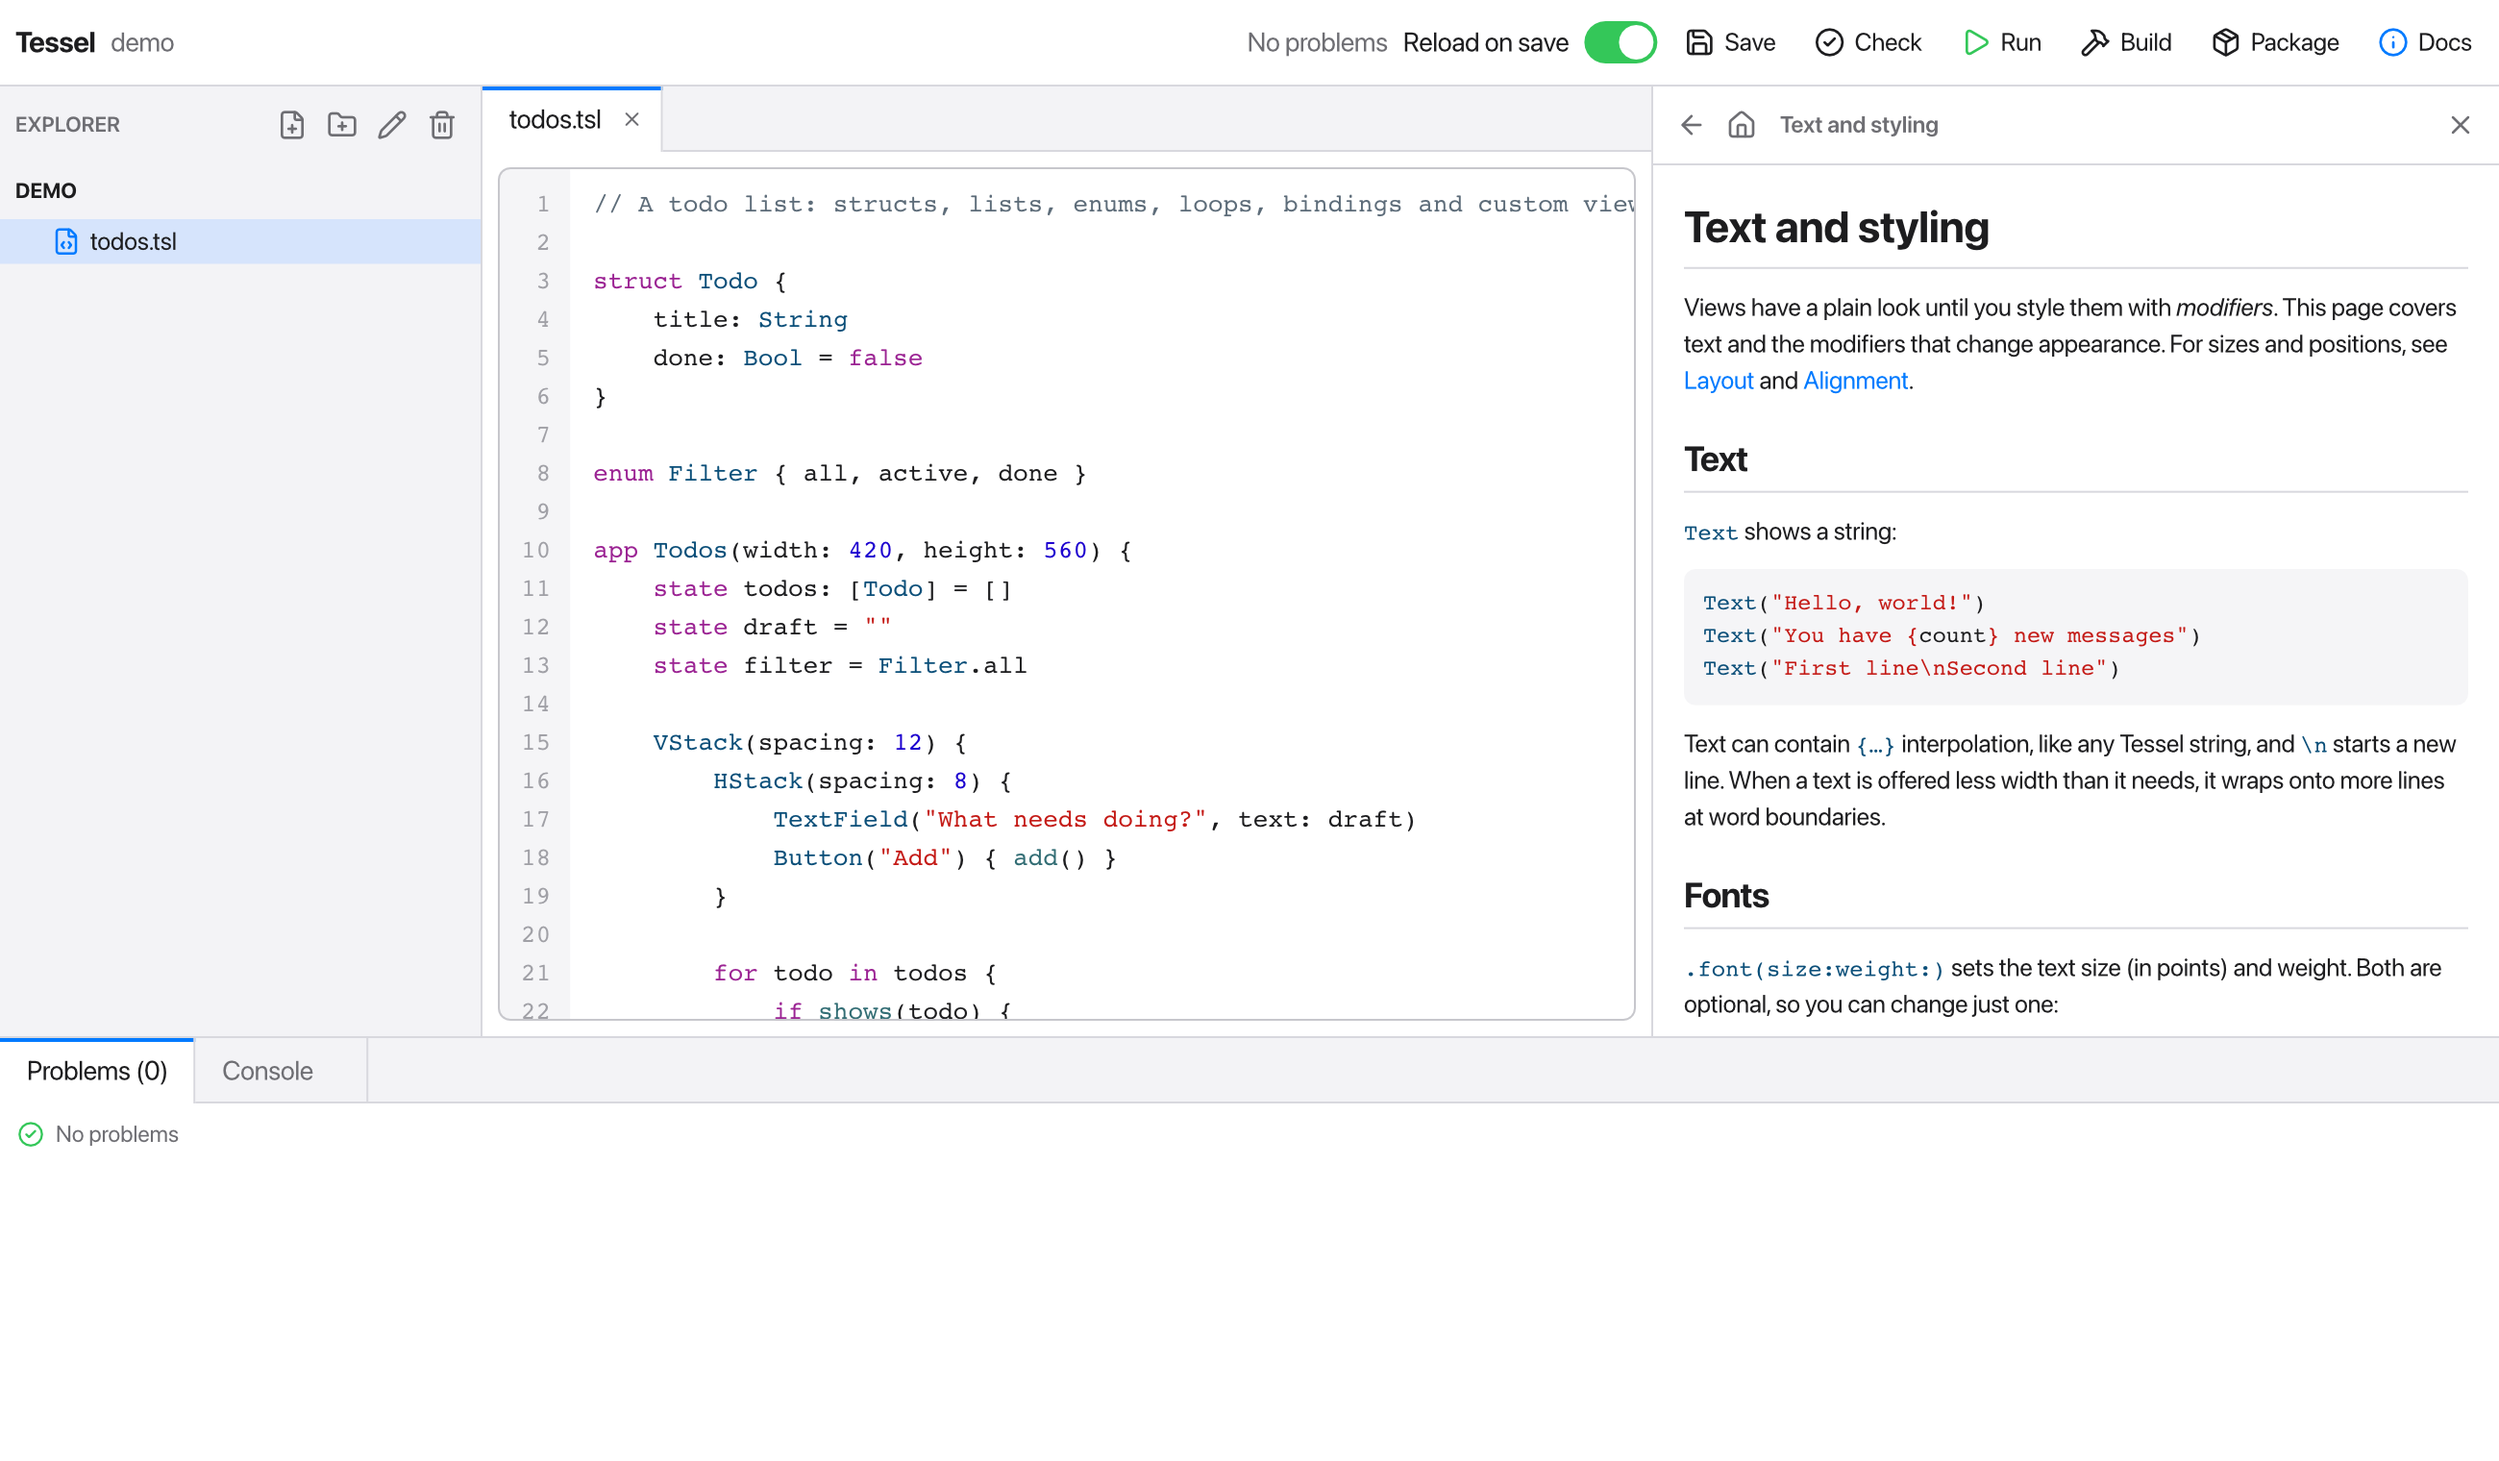
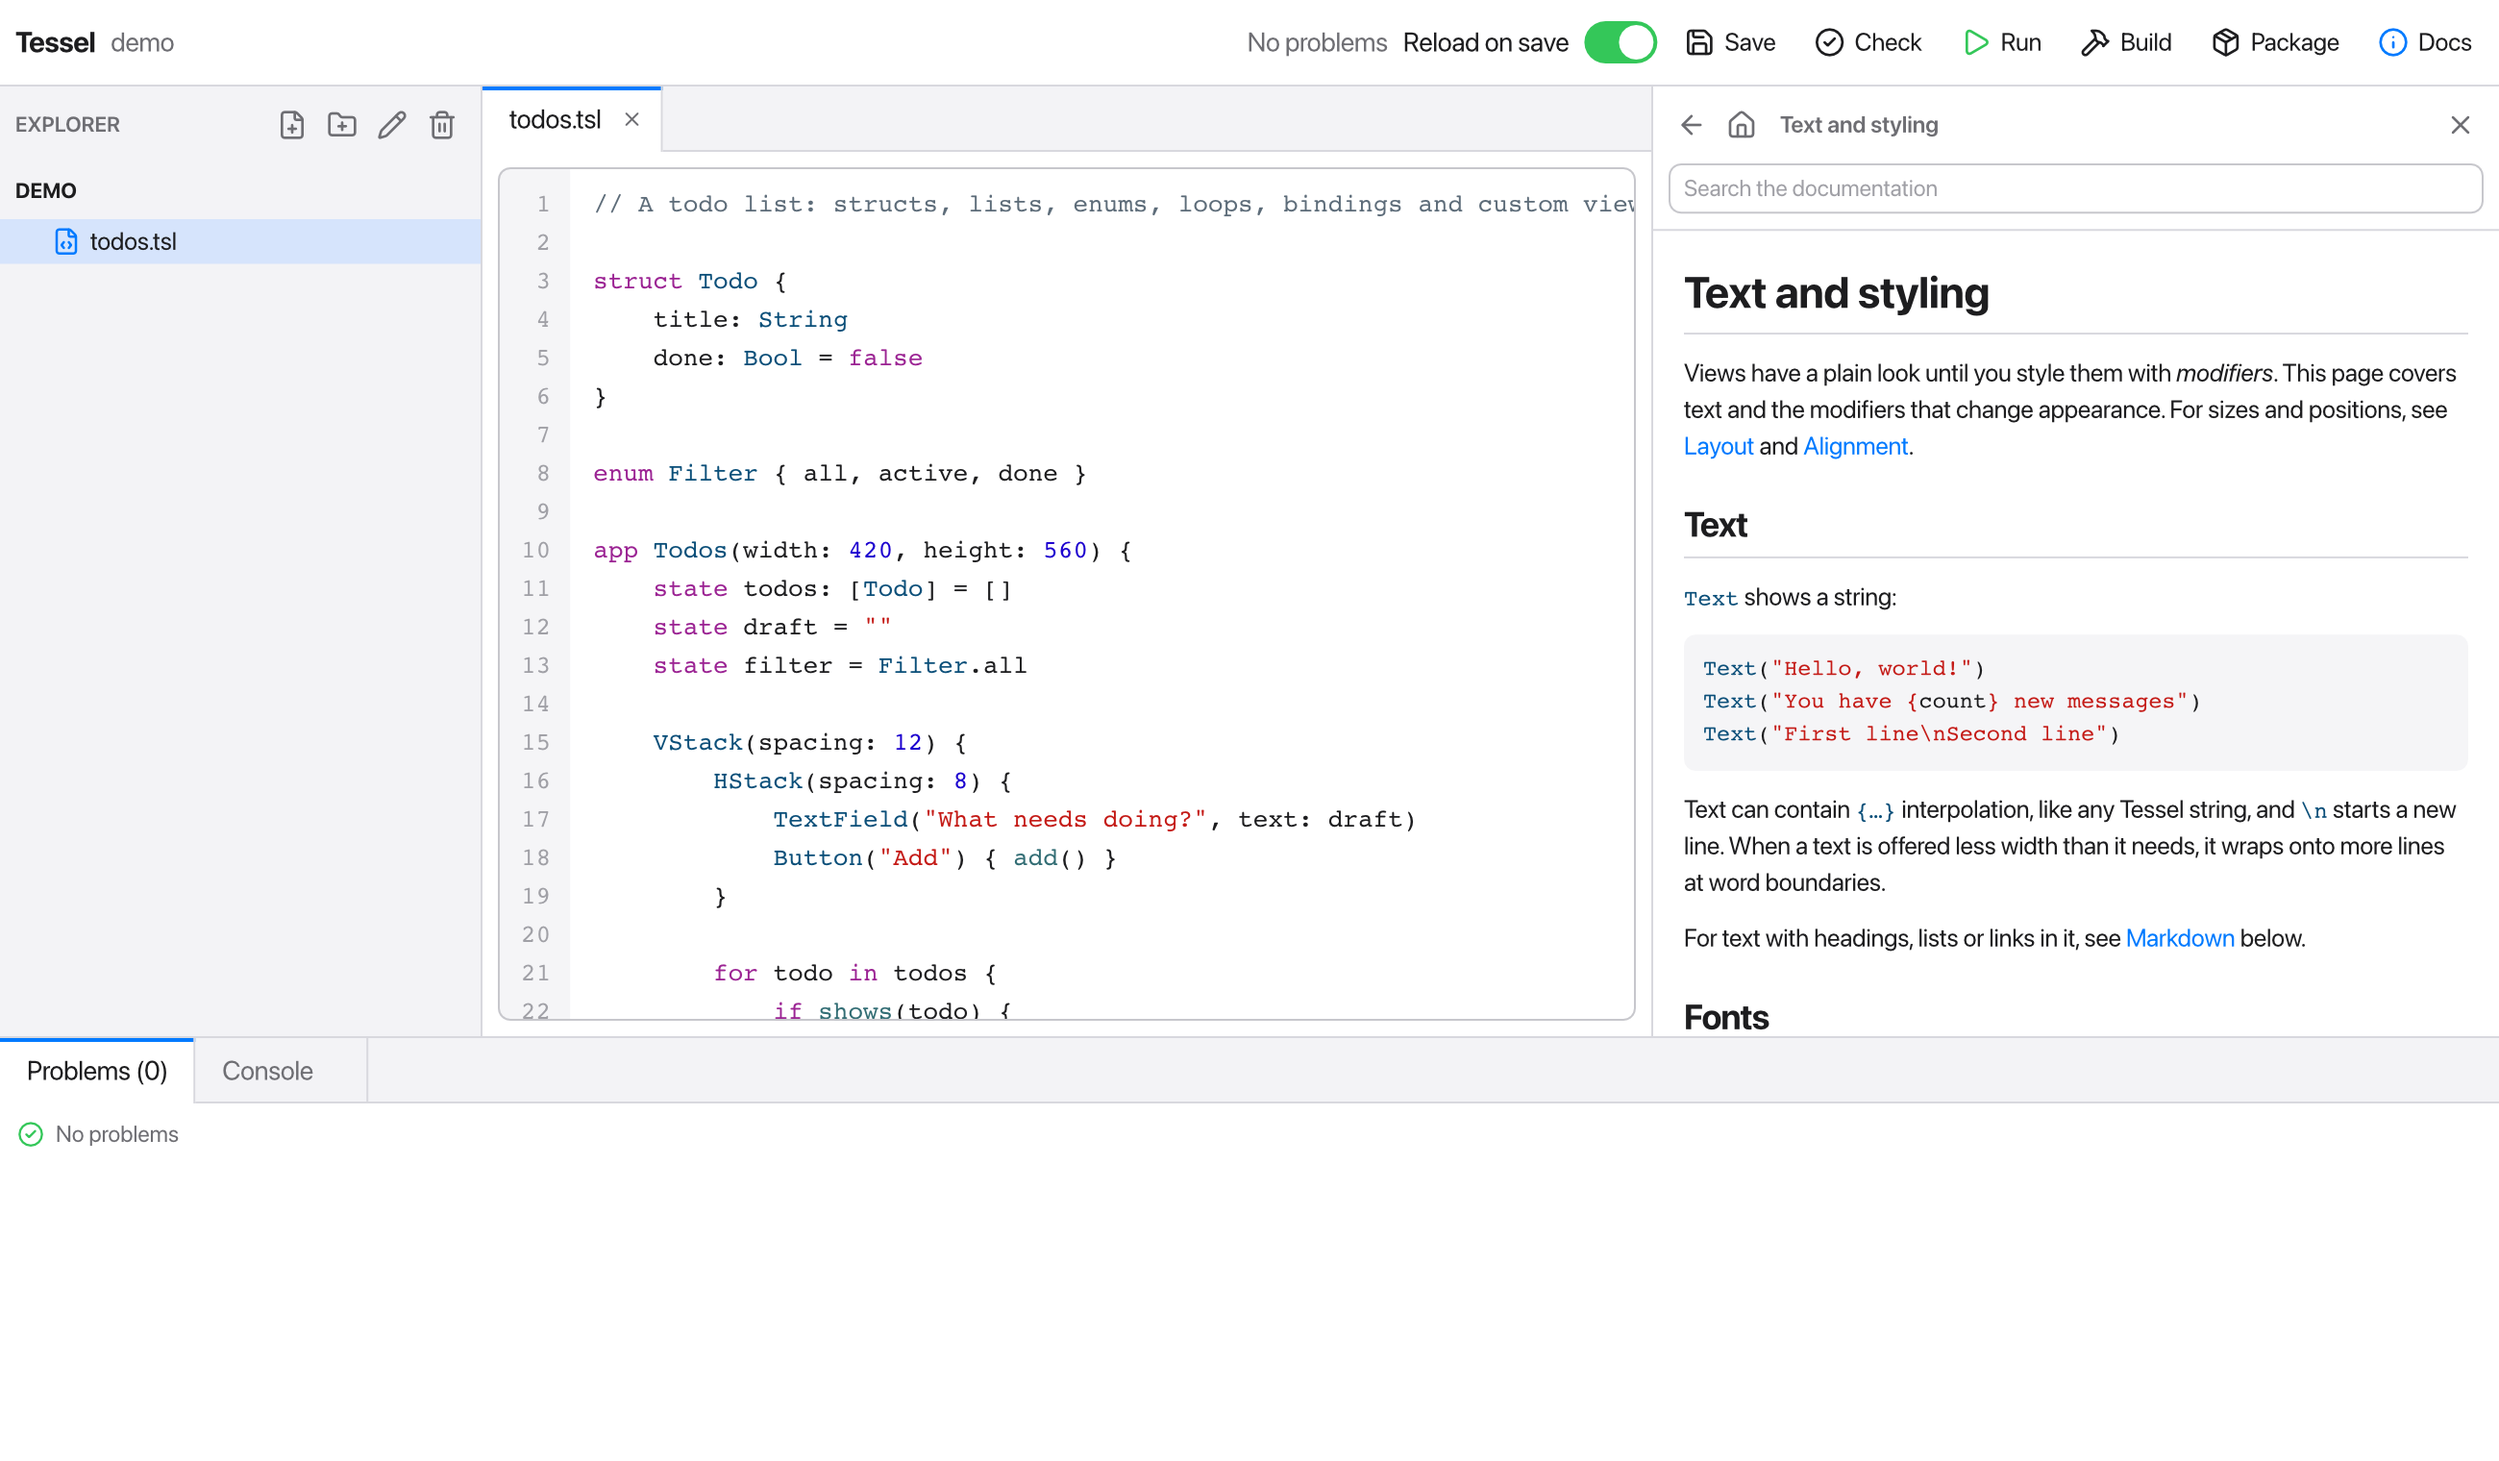
IDE: search in the Docs panel
Pages with the words in their title come first, then those with them in
their text, each with the line they're on. The pages' texts are read once,
when the panel opens.

Changed region(s): [[0.6542, 0.402, 0.9969, 0.7112], [0.6542, 0.1237, 0.9969, 0.3711]]

diff --git a/website/src/content/docs/start/ide.md b/website/src/content/docs/start/ide.md
@@ -120,6 +120,10 @@ editor, so you can read while you write:
   same order. Click a page to read it.
 - Links in a page go to other pages. The arrow goes back, and the house
   returns to the contents. Links to the web open in your browser.
+- Type in the search field to find pages: the ones with your words in their
+  title come first, then the ones with them in their text, each with the
+  line they're on. Click one to read it. Large and small letters are the
+  same to the search, and it needs two letters or more.
 - The documentation comes with Tessel and is read from your computer: it
   works without a network, and it's the documentation of the version you
   have installed.
